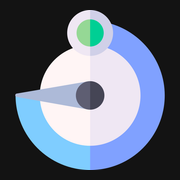
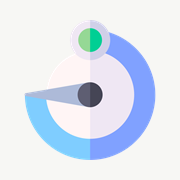
Use light iPhone launch appearance
Render the Chrona Home Screen icon and installed-app launch surface on the light gray app background.

Copilot-Session: efb2bdcc-c4cb-4e5f-a2aa-b35bfd0a7dfe

diff --git a/index.html b/index.html
@@ -24,7 +24,7 @@
     </script>
     <link rel="manifest" href="/manifest.webmanifest" />
     <meta name="apple-mobile-web-app-capable" content="yes" />
-    <meta name="apple-mobile-web-app-status-bar-style" content="black" />
+    <meta name="apple-mobile-web-app-status-bar-style" content="default" />
     <meta name="apple-mobile-web-app-title" content="Chrona" />
     <link rel="apple-touch-icon" href="/apple-touch-icon.png" />
     <title>Chrona</title>
